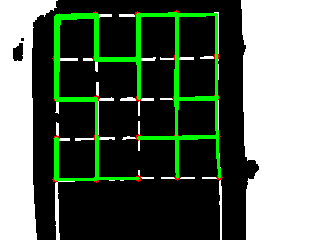
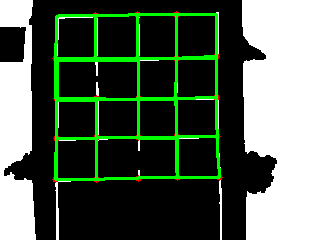
modularized code and new image processing

diff --git a/pathfinder_v2.py b/pathfinder_v2.py
@@ -41,53 +41,46 @@ def bfs_find_path(matrix2, start, end):
     return None
 
 def print_path_directions(path):
-    # always starts from (4, 4)
-    if path[0] != (4, 4):
-        print("path didnt start from 4,4")
+    if not path:
+        print("Error: No path provided or path is None")
         return
     
+    # Ensure the path starts at (4, 4)
+    if path[0] != (4, 4):
+        print("Error: Path did not start at (4, 4)")
+        return
+
     def direction(p1, p2):
         dx = p2[0] - p1[0]
         dy = p2[1] - p1[1]
         return (dx, dy)
 
     def get_move_direction(prev, current, last_direction):
-        # If the move is straight (same column or same row)
         dx = current[0] - prev[0]
         dy = current[1] - prev[1]
 
-        # Check if it's straight (up or down)
-        if prev[1] == current[1]:  # Same column, vertical move
-            if dx > 0:  # Moving down
-                return 's'
-            elif dx < 0:  # Moving up
-                return 's'
-        
-        # Check if it's left or right (horizontal move)
-        if prev[0] == current[0]:  # Same row, horizontal move
-            if dy < 0:  # Moving left
-                return 'l'
-            elif dy > 0:  # Moving right
-                return 'r'
+        # Determine the direction
+        if dx > 0:  # Moving down
+            return 's'
+        elif dx < 0:  # Moving up
+            return 'n'
+        elif dy > 0:  # Moving right
+            return 'r'
+        elif dy < 0:  # Moving left
+            return 'l'
 
-        return ''  # Invalid move (not expected)
+        return ''  # Invalid move
 
-    # List to store directions
     directions = []
-    
-    # Set the initial direction (moving up from (4, 4) is 's')
-    last_direction = (0, 1)  # Assuming starting direction is 's' (up)
+    last_direction = (0, 1)  # Default initial direction
 
-    # Iterate through the path, and determine direction based on the previous move
     for i in range(1, len(path)):
         move_direction = get_move_direction(path[i - 1], path[i], last_direction)
         directions.append(move_direction)
-        
-        # Update the last direction to be the current direction
         last_direction = direction(path[i - 1], path[i])
     
-    # Print the directions
     print("Path Directions:", directions)
+
 
 
 # Now we use this BFS-based function inside `find_path`

diff --git a/intersection_finder.py b/intersection_finder.py
@@ -1,7 +1,7 @@
 import cv2
 import numpy as np
 import heapq
-import pathfinder as pf
+#import pathfinder as pf
 import pathfinder_v2 as pf2
 import time
 
@@ -148,7 +148,7 @@ if __name__ == "__main__":
                 if distance <= max_neighbor_distance:
                     path = a_star_path(binary, start, end, list(visited_intersections), directional_weight=(1, 1))
                     if path:
-                        # print(f"Path found between {start} and {end}")
+                        print(f"Path found between {start} and {end}")
                         path_distance = len(path)
                         if path_distance <= 60:
                             paths_cord.append([coordinate_dict.get(start), coordinate_dict.get(end)])
@@ -164,13 +164,13 @@ if __name__ == "__main__":
     for i in paths_cord:
         if (i[0] != i[1]):
             matrix[i[0][1] + i[1][1]][i[0][0] + i[1][0]] = '-'
-            #print(f"Path found between {i[0]} and {i[1]} path ({i[0][0] + i[1][0]}, {i[0][1] + i[1][1]})")
+            print(f"Path found between {i[0]} and {i[1]} path ({i[0][0] + i[1][0]}, {i[0][1] + i[1][1]})")
     
-    #for i in matrix:
-        #print (i)
+    for i in matrix:
+        print (i)
     
 
-    print(pf.find_path(matrix,[8,8],[8,0]))
+#    print(pf.find_path(matrix,[8,8],[8,0]))
     end_time = time.time()
 
     # Calculate execution time
@@ -190,13 +190,19 @@ if __name__ == "__main__":
             matrix2[x1][y1].append((x2, y2))
             matrix2[x2][y2].append((x1, y1))
 
-    '''
+
     # Print the populated matrix2 with connections
     for i in range(5):
         for j in range(5):
             print(f"Node ({i},{j}) is connected to: {matrix2[i][j]}")
-    '''
+
     path = pf2.find_path(matrix2, [4, 4], [0, 4])
+
+    if path:
+        pf2.print_path_directions(path)
+    else:
+        print("No valid path found.")
+
 
     end_time = time.time()
 

diff --git a/image_prosessing.py b/image_prosessing.py
@@ -1,0 +1,57 @@
+import cv2
+import numpy as np
+import math
+
+def preprocess_grid_image(input_image, mask_strength=0.15):
+
+    # Stacked blurred (reference vignette)
+    stacked_blur_image = stacked_blur(input_image, kernel_size=15, iterations=10)
+
+
+    # Invert
+    correction_mask = 255 - stacked_blur_image
+
+
+    # Correction mask
+    brightened_image = input_image + (mask_strength * correction_mask).astype(np.uint8)
+    darkened_image = input_image - (mask_strength * correction_mask).astype(np.uint8)
+
+
+    # Brighten dark areas and darken bright areas
+    corrected_image = np.where(input_image < 128, brightened_image, darkened_image)
+    corrected_image = np.clip(corrected_image, 0, 255).astype(np.uint8)
+    cv2.imshow("stackblur1", corrected_image)
+    # Thresholding
+    max_luminance = 70
+    replace_value = 255
+
+    mask = corrected_image <= max_luminance
+    processed_frame = np.zeros_like(corrected_image)
+    processed_frame[mask] = replace_value
+
+
+    # Begone, small white areas
+    min_size = 500
+    processed_frame = remove_small_white_masses(processed_frame, min_size)
+
+    return processed_frame
+
+
+def stacked_blur(input_image, kernel_size=15, iterations=10):
+    blurred_image = input_image.copy()
+    for _ in range(iterations):
+        blurred_image = cv2.blur(blurred_image, (kernel_size, kernel_size))
+    cv2.imshow("stackblur2", blurred_image)
+    return blurred_image
+
+
+def remove_small_white_masses(binary_image, min_size):
+    num_labels, labels, stats, _ = cv2.connectedComponentsWithStats(binary_image, connectivity=8)
+    filtered_image = np.zeros_like(binary_image)
+
+    for label in range(1, num_labels):  # Skip the background
+        area = stats[label, cv2.CC_STAT_AREA]
+        if area >= min_size:
+            filtered_image[labels == label] = 255
+
+    return filtered_image

diff --git a/gifs_al_main.py b/gifs_al_main.py
@@ -1,0 +1,38 @@
+import cv2
+import numpy as np
+from image_prosessing import preprocess_grid_image
+
+def process_and_display_gif(gif_path):
+
+    window_name = "GIF Processing"
+    cv2.namedWindow(window_name)
+
+    while True:  # Infinite loop for playback
+        cap = cv2.VideoCapture(gif_path)
+        if not cap.isOpened():
+            print(f"Error: Unable to open GIF file {gif_path}")
+            return
+
+        while True:
+            ret, frame = cap.read()
+            if not ret:
+                break
+
+            gray_frame = cv2.cvtColor(frame, cv2.COLOR_BGR2GRAY)
+
+            processed_frame = preprocess_grid_image(gray_frame)
+
+            combined = np.hstack((gray_frame, processed_frame))
+
+            cv2.imshow(window_name, combined)
+
+            if cv2.waitKey(100) & 0xFF == ord('x'):
+                cap.release()
+                cv2.destroyAllWindows()
+                return
+
+        cap.release()
+
+if __name__ == "__main__":
+    input_gif = "input.gif"
+    process_and_display_gif(input_gif)

diff --git a/image_io.py b/image_io.py
@@ -1,0 +1,26 @@
+import cv2
+import os
+from image_prosessing import preprocess_grid_image
+
+def save_processed_image(image, filename="processed.png"):
+    cv2.imwrite(filename, image)
+
+def display_picture():
+    files = os.listdir("pics")
+    image_files = [file for file in files if file.startswith("picture_") and file.endswith(".png")]
+
+    if not image_files:
+        print("No pictures found.")
+        return None, None
+
+    numbers = [int(file.split('_')[1].split('.')[0]) for file in image_files]
+    latest_number = max(numbers)
+    latest_filename = f"pics/picture_{latest_number:03}.png"
+
+    original_image = cv2.imread(latest_filename, cv2.IMREAD_GRAYSCALE)
+    if original_image is None:
+        print(f"Failed to load {latest_filename}.")
+        return None, None
+
+    processed_image = preprocess_grid_image(original_image)
+    return original_image, processed_image

diff --git a/main.py b/main.py
@@ -1,0 +1,19 @@
+import cv2
+from image_io import display_picture, save_processed_image
+from gui import show_combined_image
+
+if __name__ == "__main__":
+    window_name = "Before and After"
+    cv2.namedWindow(window_name)
+
+    while True:
+        key = cv2.waitKey(1) & 0xFF
+        if key == ord('x'):  # Exit on 'x'
+            break
+        elif key == ord('p'):  # Process and save on 'p'
+            original_image, processed_image = display_picture()
+            if processed_image is not None:
+                show_combined_image(original_image, processed_image, window_name)
+                save_processed_image(processed_image)
+
+    cv2.destroyAllWindows()

diff --git a/gui.py b/gui.py
@@ -1,0 +1,10 @@
+import cv2
+import numpy as np
+
+def nothing(x):
+    """Dummy callback"""
+    pass
+
+def show_combined_image(original_image, processed_image, window_name="Before and After"):
+    combined_image = np.hstack((original_image, processed_image))
+    cv2.imshow(window_name, combined_image)
